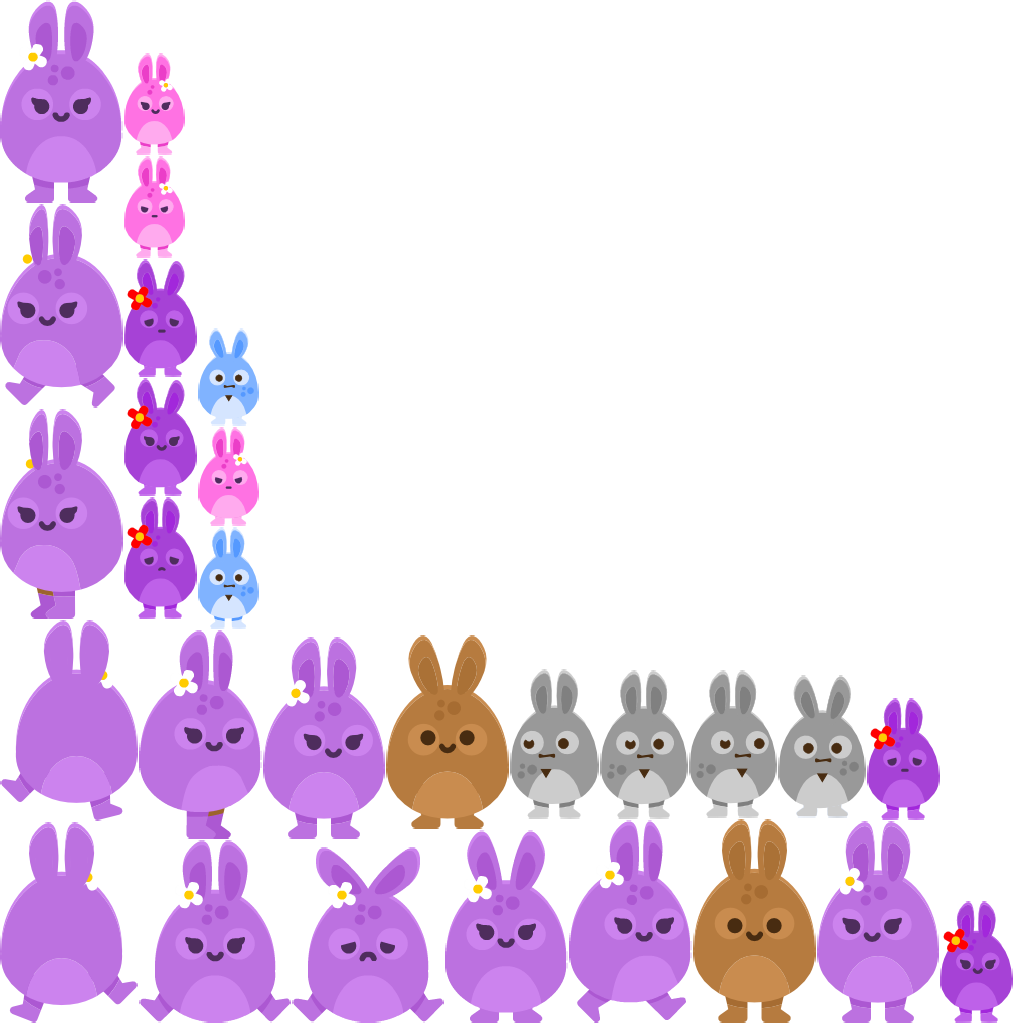
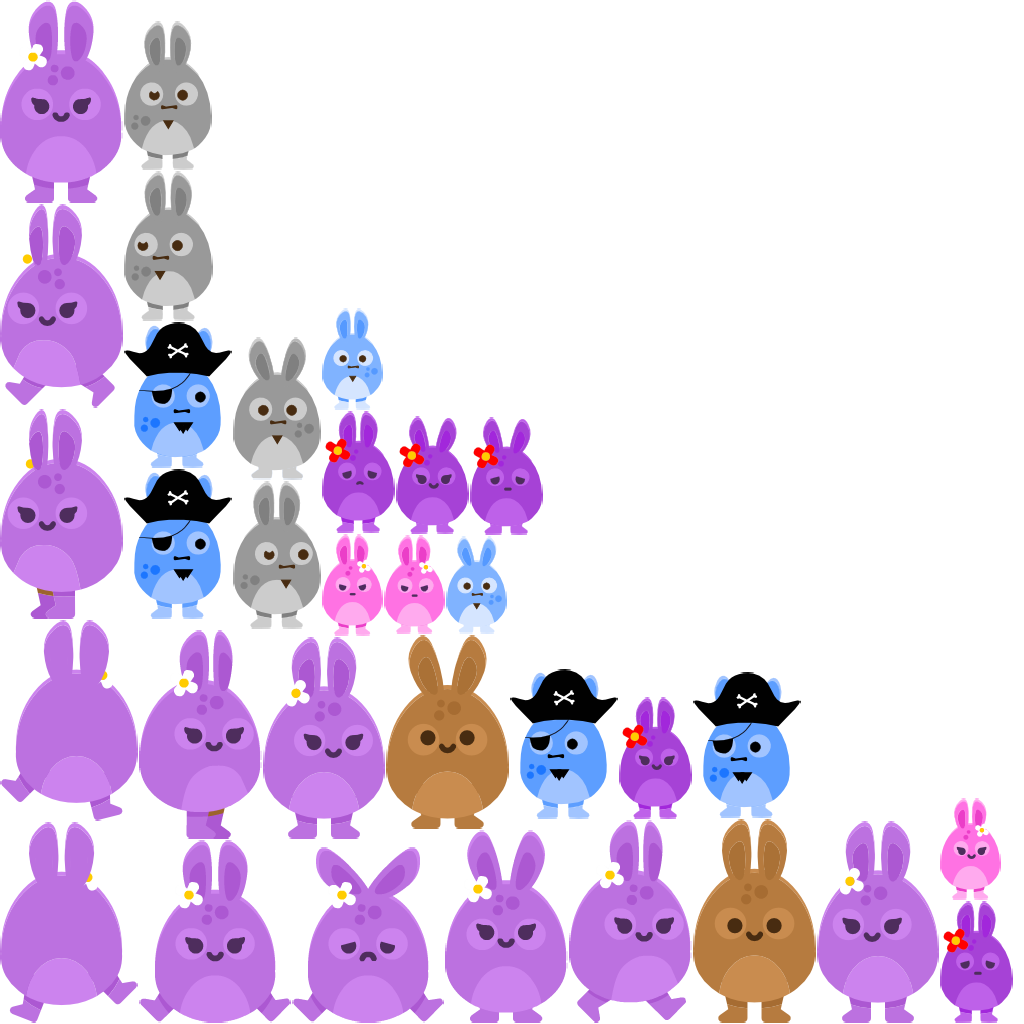
Added captain character

Changed region(s): [[0.0938, 0.0, 0.5312, 0.625], [0.5, 0.6562, 1.0, 0.875], [0.9375, 0.9375, 0.9688, 0.9688]]

diff --git a/core/src/com/epifania/utils/Assets.java b/core/src/com/epifania/utils/Assets.java
@@ -55,6 +55,7 @@ public class Assets implements Disposable, AssetErrorListener{
 	public PinkyAnimations pinkyAnimations;
 	public BlueAnimations blueAnimations;
 	public BonnyAnimations bonnyAnimations;
+	public CaptainAnimations captainAnimations;
 	public Items items;
 	
 	private Assets(){}
@@ -162,6 +163,7 @@ public class Assets implements Disposable, AssetErrorListener{
 		pinkyAnimations = new PinkyAnimations(assetManager.get("characters/characters.atlas",TextureAtlas.class));
 		blueAnimations = new BlueAnimations(assetManager.get("characters/characters.atlas",TextureAtlas.class));
 		bonnyAnimations = new BonnyAnimations(assetManager.get("characters/characters.atlas",TextureAtlas.class));
+		captainAnimations = new CaptainAnimations(assetManager.get("characters/characters.atlas",TextureAtlas.class));
 		items = new Items(assetManager.get("game_objects/items.atlas",TextureAtlas.class));
 	}
 
@@ -255,6 +257,31 @@ public class Assets implements Disposable, AssetErrorListener{
 		}
 	}
 
+	public class CaptainAnimations{
+		public  final Animation left;
+		public  final Animation right;
+		public  final Animation center;
+		public CaptainAnimations(TextureAtlas atlas){
+			float frameDuration = 1.0f;
+			Array<TextureRegion> frames = new Array<TextureRegion>();
+			frames.add(new TextureRegion(atlas.findRegion("Captain/captainLeft1")));
+			frames.add(new TextureRegion(atlas.findRegion("Captain/captainLeft2")));
+			left = new Animation(frameDuration,frames,PlayMode.NORMAL);
+			frames.clear();
+			frames.add(new TextureRegion(atlas.findRegion("Captain/captainRight1")));
+			frames.add(new TextureRegion(atlas.findRegion("Captain/captainRight2")));
+			right = new Animation(frameDuration,frames,PlayMode.NORMAL);
+			frames.clear();
+			frames.add(new TextureRegion(atlas.findRegion("Captain/captainLeft1")));
+			frames.add(new TextureRegion(atlas.findRegion("Captain/captainLeft2")));
+			frames.add(new TextureRegion(atlas.findRegion("Captain/captainLeft1")));
+			frames.add(new TextureRegion(atlas.findRegion("Captain/captainRight1")));
+			frames.add(new TextureRegion(atlas.findRegion("Captain/captainRight2")));
+			frames.add(new TextureRegion(atlas.findRegion("Captain/captainRight1")));
+			center = new Animation(frameDuration,frames,PlayMode.LOOP_PINGPONG);
+		}
+	}
+
 	public class GomhAnimations{
 		public  final Animation left;
 		public  final Animation right;
@@ -263,13 +290,18 @@ public class Assets implements Disposable, AssetErrorListener{
 			float frameDuration = 1.0f;
 			Array<TextureRegion> frames = new Array<TextureRegion>();
 			frames.add(new TextureRegion(atlas.findRegion("Gomh/gomhLeft")));
+			frames.add(new TextureRegion(atlas.findRegion("Gomh/gomhRight")));
 			left = new Animation(frameDuration,frames,PlayMode.NORMAL);
 			frames.clear();
 			frames.add(new TextureRegion(atlas.findRegion("Gomh/gomhRight")));
 			right = new Animation(frameDuration,frames,PlayMode.NORMAL);
 			frames.clear();
+			frames.add(new TextureRegion(atlas.findRegion("Gomh/gomhLeft")));
 			frames.add(new TextureRegion(atlas.findRegion("Gomh/gomhIdle")));
-			center = new Animation(frameDuration,frames,PlayMode.NORMAL);
+			frames.add(new TextureRegion(atlas.findRegion("Gomh/gomhIdle2")));
+			frames.add(new TextureRegion(atlas.findRegion("Gomh/gomhIdle")));
+			frames.add(new TextureRegion(atlas.findRegion("Gomh/gomhRight")));
+			center = new Animation(frameDuration,frames,PlayMode.LOOP_PINGPONG);
 		}
 	}
 

diff --git a/core/src/com/epifania/utils/LevelBuilder.java b/core/src/com/epifania/utils/LevelBuilder.java
@@ -171,15 +171,13 @@ public class LevelBuilder {
             }else
             if(type.equals("character")){
                 String name = (String)object.getProperties().get("name");
-                if(name.equals("GOMH")||name.equals("MOM")||name.equals("PINKY")||name.equals("BLUE")){
+                if(!name.equals("VAL")){
                     createCharacter(object,flag,name);
-                }else if(name.equals("VAL")){
+                }else{
                     //Create the main character and make the camera follow it
                     Entity val = createVal(object.getProperties(),flag);
                     createCamera(val);
                     engine.addEntity(val);
-                }else {
-                    Gdx.app.error(tag,"character not found : "+name);
                 }
             }else
             if(type.equals("thought")){
@@ -1746,6 +1744,11 @@ public class LevelBuilder {
                 break;
             case BONNY:
                 out.put(CharacterComponent.IDLE,Assets.instance.bonnyAnimations.idle);
+                break;
+            case CAPTAIN:
+                out.put(CharacterComponent.IDLE,Assets.instance.captainAnimations.center);
+                out.put(CharacterComponent.RIGHT,Assets.instance.captainAnimations.right);
+                out.put(CharacterComponent.LEFT,Assets.instance.captainAnimations.left);
                 break;
             default:
                 Gdx.app.error(tag,"No character found under the name of: "+character);

diff --git a/core/src/com/epifania/components/CharacterComponent.java b/core/src/com/epifania/components/CharacterComponent.java
@@ -20,8 +20,8 @@ public class CharacterComponent implements Component{
     public Character character;
     public States state = States.WAITING_IN;
 
-    public static enum Character{
-        GOMH, PINKY, MOM, BLUE, BONNY
+    public enum Character{
+        GOMH, PINKY, MOM, BLUE, BONNY, CAPTAIN
     }
 
     public enum States{
